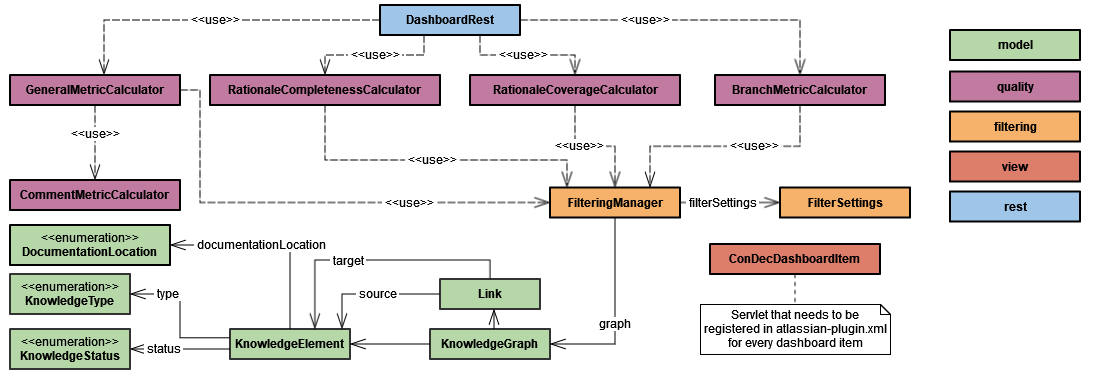
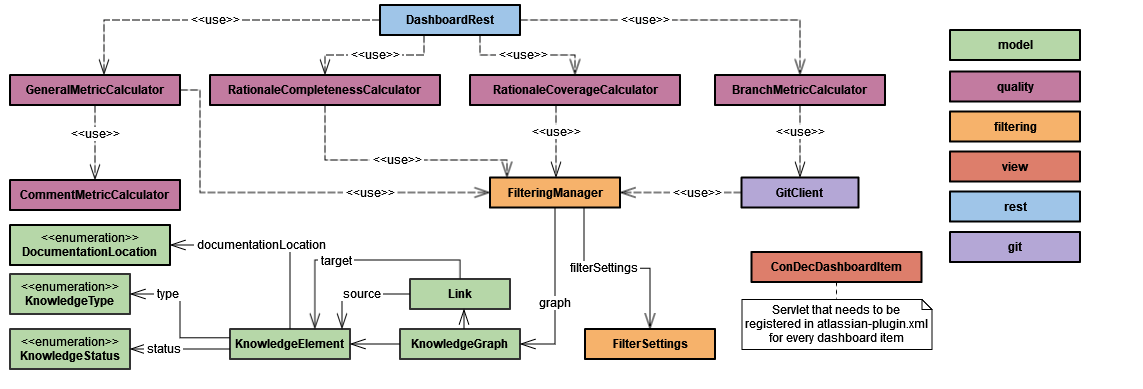
Update class diagram for dashboard creation

diff --git a/src/main/java/de/uhd/ifi/se/decision/management/jira/metric/RationaleCoverageCalculator.java b/src/main/java/de/uhd/ifi/se/decision/management/jira/metric/RationaleCoverageCalculator.java
@@ -27,6 +27,14 @@ public class RationaleCoverageCalculator {
 	private FilterSettings filterSettings;
 	private Set<KnowledgeElement> elementsToBeCoveredWithRationale;
 
+	/**
+	 * @param filterSettings
+	 *            {@link FilterSettings} used to filter the {@link KnowledgeGraph}.
+	 *            For example, the {@link FilterSettings} can be used to specify
+	 *            that the coverage of decisions should only include decisions with
+	 *            status "decided" and no decisions with status "rejected" or
+	 *            "challenged".
+	 */
 	public RationaleCoverageCalculator(FilterSettings filterSettings) {
 		this.filterSettings = filterSettings;
 		elementsToBeCoveredWithRationale = getElementsToBeCovered();
@@ -58,11 +66,8 @@ public class RationaleCoverageCalculator {
 	 *            decision knowledge type (see {@link KnowledgeType}) for that the
 	 *            coverage should be calculated (e.g. {@link KnowledgeType#DECISION}
 	 *            for decision coverage).
-	 * @return map with the decision problem coverage as keys and elements that have
-	 *         the respective coverage as map values. The status in the
-	 *         {@link FilterSettings} can be used to specify whether the decision
-	 *         problems should be resolved or unresolved. Per default, both resolved
-	 *         and unresolved decision problems (issues) are included.
+	 * @return map with the rationale coverage as keys and elements that have the
+	 *         respective coverage as map values.
 	 */
 	private Map<Integer, List<KnowledgeElement>> calculateCoverage(KnowledgeType knowledgeType) {
 		Map<Integer, List<KnowledgeElement>> metric = new LinkedHashMap<>();
@@ -93,7 +98,7 @@ public class RationaleCoverageCalculator {
 	 *            for decision coverage).
 	 * @param filterSettings
 	 *            {@link FilterSettings} to filter the {@link KnowledgeGraph}. The
-	 *            source element is selected.
+	 *            source element is the selected element.
 	 * @return reachable {@link KnowledgeElement}s of target type, e.g. decisions
 	 *         from source element.
 	 */

diff --git a/src/main/java/de/uhd/ifi/se/decision/management/jira/rest/DashboardRest.java b/src/main/java/de/uhd/ifi/se/decision/management/jira/rest/DashboardRest.java
@@ -15,9 +15,18 @@ import de.uhd.ifi.se.decision.management.jira.metric.BranchMetricCalculator;
 import de.uhd.ifi.se.decision.management.jira.metric.GeneralMetricCalculator;
 import de.uhd.ifi.se.decision.management.jira.metric.RationaleCompletenessCalculator;
 import de.uhd.ifi.se.decision.management.jira.metric.RationaleCoverageCalculator;
+import de.uhd.ifi.se.decision.management.jira.model.KnowledgeGraph;
+import de.uhd.ifi.se.decision.management.jira.view.dashboard.ConDecDashboardItem;
 
 /**
- * REST resource for dashboards
+ * REST resource for dashboard items to present metrics calculated on the
+ * {@link KnowledgeGraph} data structure. Note that also the
+ * {@link ConDecDashboardItem} is necessary to create dashboard items.
+ * 
+ * @see GeneralMetricCalculator
+ * @see RationaleCompletenessCalculator
+ * @see RationaleCoverageCalculator
+ * @see BranchMetricCalculator
  */
 @Path("/dashboard")
 public class DashboardRest {

diff --git a/src/main/java/de/uhd/ifi/se/decision/management/jira/metric/CharacterizedJiraIssue.java b/src/main/java/de/uhd/ifi/se/decision/management/jira/metric/CharacterizedJiraIssue.java
@@ -17,7 +17,8 @@ import de.uhd.ifi.se.decision.management.jira.persistence.singlelocations.JiraIs
 /**
  * Represents a Jira issue with information about the number of comments, number
  * of relevant and irrelevant comments wrt. decision knowledge, and the number
- * of commits.
+ * of commits. In ConDec, Jira issues are modeled as specific
+ * {@link KnowledgeElement}s.
  */
 public class CharacterizedJiraIssue extends KnowledgeElement {
 
